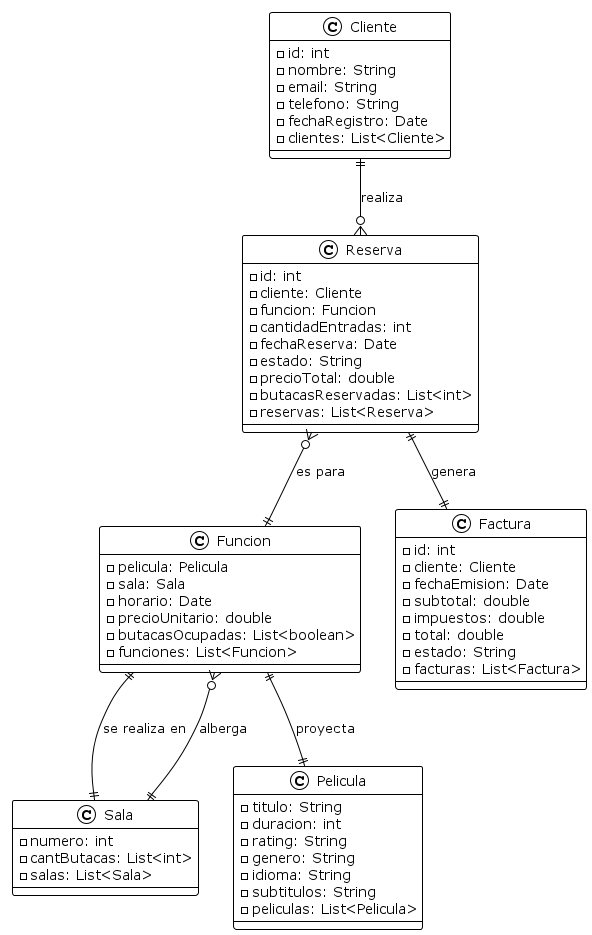
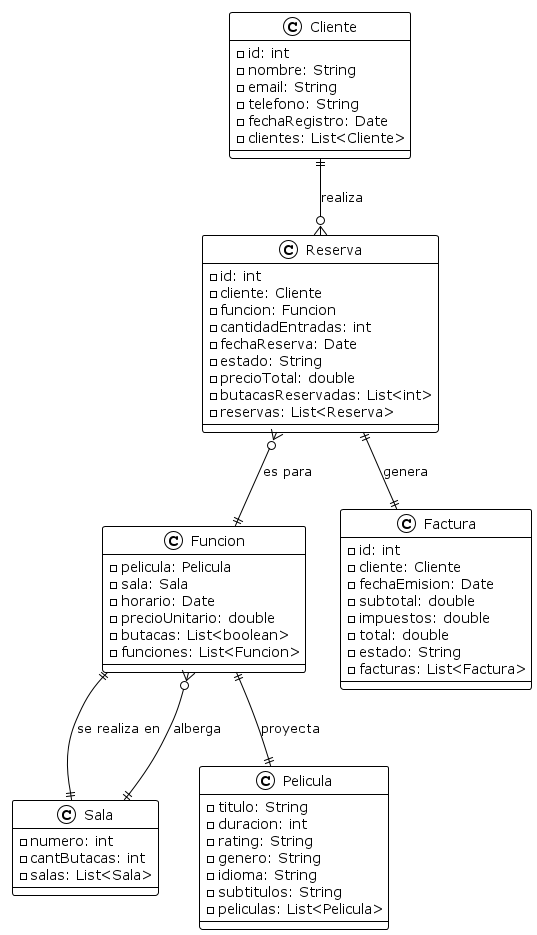
Modifica la estructura de clases en el sistema de gestión de cine, cambiando el tipo de datos de 'cantButacas' en la clase Sala de un arreglo a un entero, y renombrando 'butacasOcupadas' a 'butacas' en la clase Funcion. Actualiza las referencias en Main.java y TestSistema.java para reflejar estos ca

diff --git a/src/main/java/cine/funciones/Funcion.java b/src/main/java/cine/funciones/Funcion.java
@@ -9,15 +9,15 @@ public class Funcion {
     private Sala sala;
     private Date horario;
     private double precioUnitario;
-    private ArrayList<Boolean> butacasOcupadas;
+    private ArrayList<Boolean> butacas;
     private static ArrayList<Funcion> funciones = new ArrayList<>();
     
     public Funcion(Pelicula pelicula, Sala sala, Date horario, double precioUnitario) {
         this.pelicula = pelicula;
         this.sala = sala;
-        this.horario = horario;
+        this.horario = horario; 
         this.precioUnitario = precioUnitario;
-        this.butacasOcupadas = inicializarButacas(sala.getCantButacas().length);
+        this.butacas = inicializarButacas(sala.getCantButacas());
         addFuncion(this);
     }
     
@@ -43,16 +43,16 @@ public class Funcion {
     }
     
     public boolean reservarButaca(int numeroButaca) {
-        if (numeroButaca >= 0 && numeroButaca < butacasOcupadas.size() && !butacasOcupadas.get(numeroButaca)) {
-            butacasOcupadas.set(numeroButaca, true);
+        if (numeroButaca >= 0 && numeroButaca < butacas.size() && !butacas.get(numeroButaca)) {
+            butacas.set(numeroButaca, true);
             return true; // Reserva exitosa
         }
         return false; // Butaca ocupada o número inválido
     }
     
     public boolean liberarButaca(int numeroButaca) {
-        if (numeroButaca >= 0 && numeroButaca < butacasOcupadas.size() && butacasOcupadas.get(numeroButaca)) {
-            butacasOcupadas.set(numeroButaca, false);
+        if (numeroButaca >= 0 && numeroButaca < butacas.size() && butacas.get(numeroButaca)) {
+            butacas.set(numeroButaca, false);
             return true; // Liberación exitosa
         }
         return false; // Butaca ya libre o número inválido
@@ -60,7 +60,7 @@ public class Funcion {
     
     public int getButacasDisponibles() {
         int disponibles = 0;
-        for (Boolean ocupada : butacasOcupadas) {
+        for (Boolean ocupada : butacas) {
             if (!ocupada) {
                 disponibles++;
             }
@@ -70,8 +70,8 @@ public class Funcion {
     
     public ArrayList<Integer> getButacasDisponiblesLista() {
         ArrayList<Integer> butacasDisponibles = new ArrayList<>();
-        for (int i = 0; i < butacasOcupadas.size(); i++) {
-            if (!butacasOcupadas.get(i)) {
+        for (int i = 0; i < butacas.size(); i++) {
+            if (!butacas.get(i)) {
                 butacasDisponibles.add(i); // Agregar el número de butaca (índice)
             }
         }
@@ -111,11 +111,11 @@ public class Funcion {
         this.precioUnitario = precioUnitario;
     }
     
-    public ArrayList<Boolean> getButacasOcupadas() {
-        return butacasOcupadas;
+    public ArrayList<Boolean> getButacas() {
+        return butacas;
     }
     
-    public void setButacasOcupadas(ArrayList<Boolean> butacasOcupadas) {
-        this.butacasOcupadas = butacasOcupadas;
+    public void setButacas(ArrayList<Boolean> butacas) {
+        this.butacas = butacas;
     }
 }

diff --git a/src/main/java/cine/salas/Sala.java b/src/main/java/cine/salas/Sala.java
@@ -3,22 +3,15 @@ import java.util.ArrayList;
 
 public class Sala {
     private int numero;
-    private int[] cantButacas;
+    private int cantButacas;
     private static ArrayList<Sala> salas = new ArrayList<>();
     
     public Sala(int numero, int cantButacas) {
         this.numero = numero;
-        this.cantButacas = generateButacasList(cantButacas);
+        this.cantButacas = cantButacas;
         addSala(this); // Se auto-registra directamente
     }
 
-    private int[] generateButacasList(int cantButacas) {
-        int[] butacas = new int[cantButacas];
-        for (int i = 0; i < cantButacas; i++) {
-            butacas[i] = i;
-        }
-        return butacas;
-    }
 
     public static void addSala(Sala sala) {
         salas.add(sala);
@@ -36,7 +29,7 @@ public class Sala {
         return numero;
     }
     
-    public int[] getCantButacas() {
+    public int getCantButacas() {
         return cantButacas;
     }
     
@@ -44,7 +37,7 @@ public class Sala {
         this.numero = numero;
     }
     
-    public void setCantButacas(int[] cantButacas) {
+    public void setCantButacas(int cantButacas) {
         this.cantButacas = cantButacas;
     }
 }

diff --git a/src/main/java/TestSistema.java b/src/main/java/TestSistema.java
@@ -77,7 +77,7 @@ public class TestSistema {
         ArrayList<Sala> salas = Sala.getSalas();
         System.out.println("OK Salas creadas: " + salas.size());
         for (Sala s : salas) {
-            System.out.println("  - Sala " + s.getNumero() + " (" + s.getCantButacas().length + " butacas)");
+            System.out.println("  - Sala " + s.getNumero() + " (" + s.getCantButacas() + " butacas)");
         }
         
         // Verificar que se crearon los clientes
@@ -212,7 +212,7 @@ public class TestSistema {
         // Verificar butacas ocupadas vs disponibles
         ArrayList<Funcion> funciones = Funcion.getFunciones();
         for (Funcion f : funciones) {
-            int totalButacas = f.getSala().getCantButacas().length;
+            int totalButacas = f.getSala().getCantButacas();
             int disponibles = f.getButacasDisponibles();
             int ocupadas = totalButacas - disponibles;
             System.out.println("OK " + f.getPelicula().getTitulo() + ": " + ocupadas + " ocupadas, " + disponibles + " disponibles");

diff --git a/src/main/java/Main.java b/src/main/java/Main.java
@@ -191,7 +191,7 @@ public class Main {
         ArrayList<Sala> salas = Sala.getSalas();
         for (int i = 0; i < salas.size(); i++) {
             System.out.println((i + 1) + ". Sala " + salas.get(i).getNumero() + 
-                             " (" + salas.get(i).getCantButacas().length + " butacas)");
+                             " (" + salas.get(i).getCantButacas() + " butacas)");
         }
         
         System.out.print("Seleccione una sala (numero): ");
@@ -516,7 +516,7 @@ public class Main {
         
         System.out.println("\n--- SALAS ---");
         for (Sala sala : Sala.getSalas()) {
-            System.out.println("- Sala " + sala.getNumero() + " - " + sala.getCantButacas().length + " butacas");
+            System.out.println("- Sala " + sala.getNumero() + " - " + sala.getCantButacas() + " butacas");
         }
         
         System.out.println("\n--- FUNCIONES ---");
